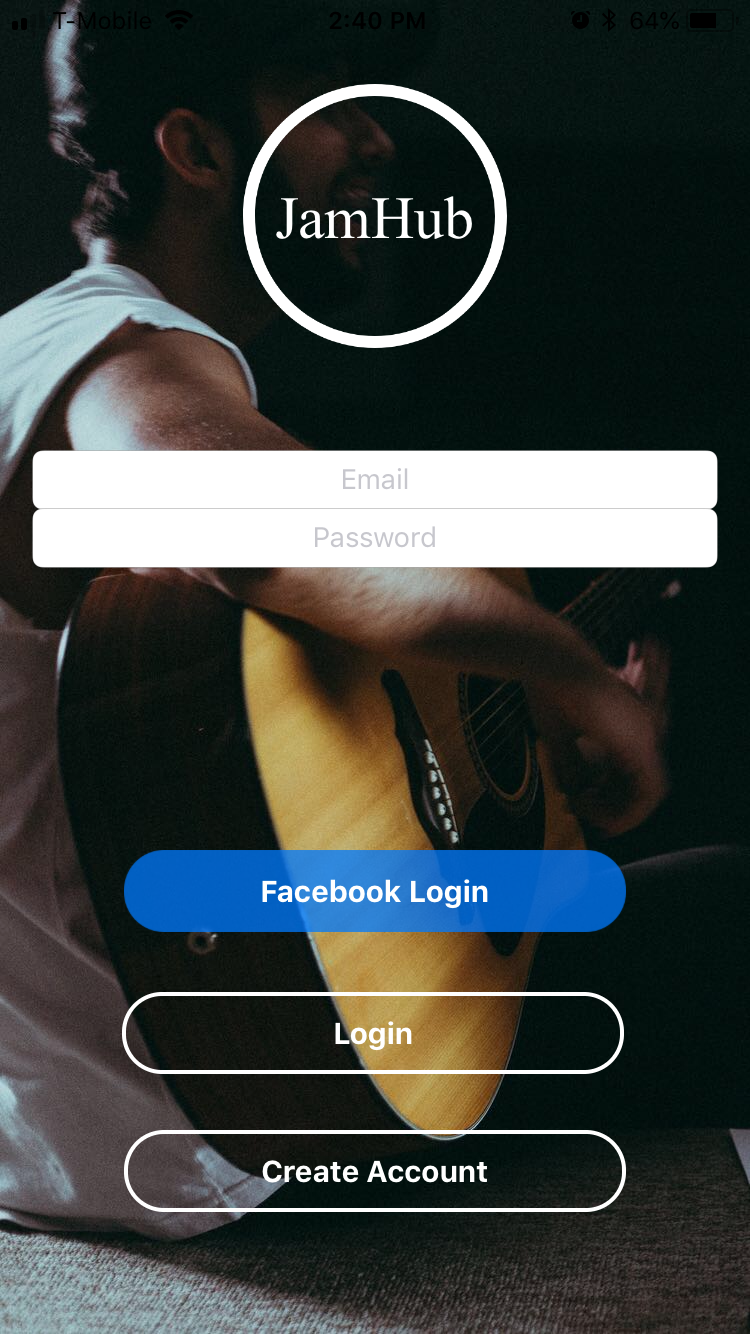
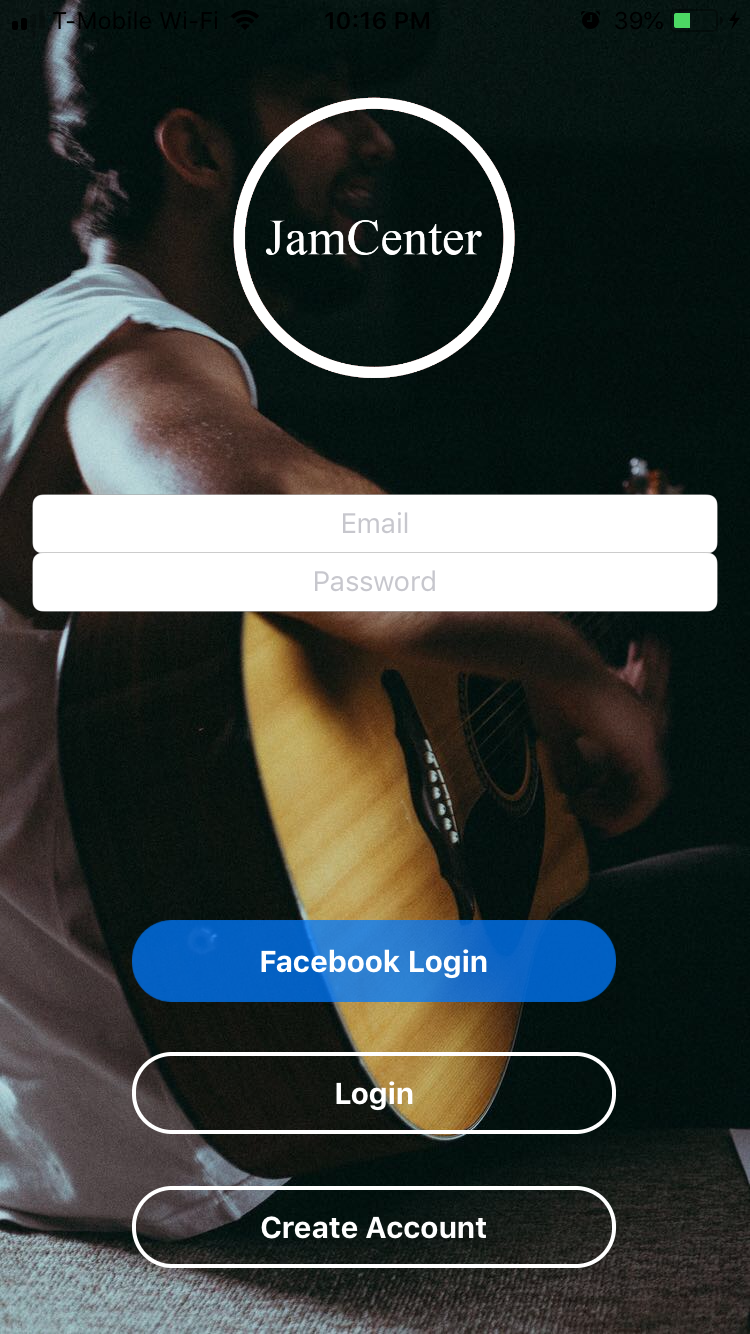
Update images and naming

diff --git a/index.html b/index.html
@@ -8,7 +8,7 @@
     <meta name="description" content="">
     <meta name="author" content="">
 
-    <title>JamHub</title>
+    <title>JamCenter</title>
 
     <!-- Bootstrap core CSS -->
     <link href="vendor/bootstrap/css/bootstrap.min.css" rel="stylesheet">
@@ -86,7 +86,7 @@
         <div class="row">
           <div class="col-md-8 mx-auto">
             <h2 class="section-heading">Get ready for a brand new jamming experience</h2>
-            <p>JamHub is coming soon to the iOS App Store</p>
+            <p>JamCenter is coming soon to the iOS App Store</p>
             <div class="badges">
               <a class="badge-link" href="#"><img src="img/app-store-badge.svg" alt=""></a>
             </div>
